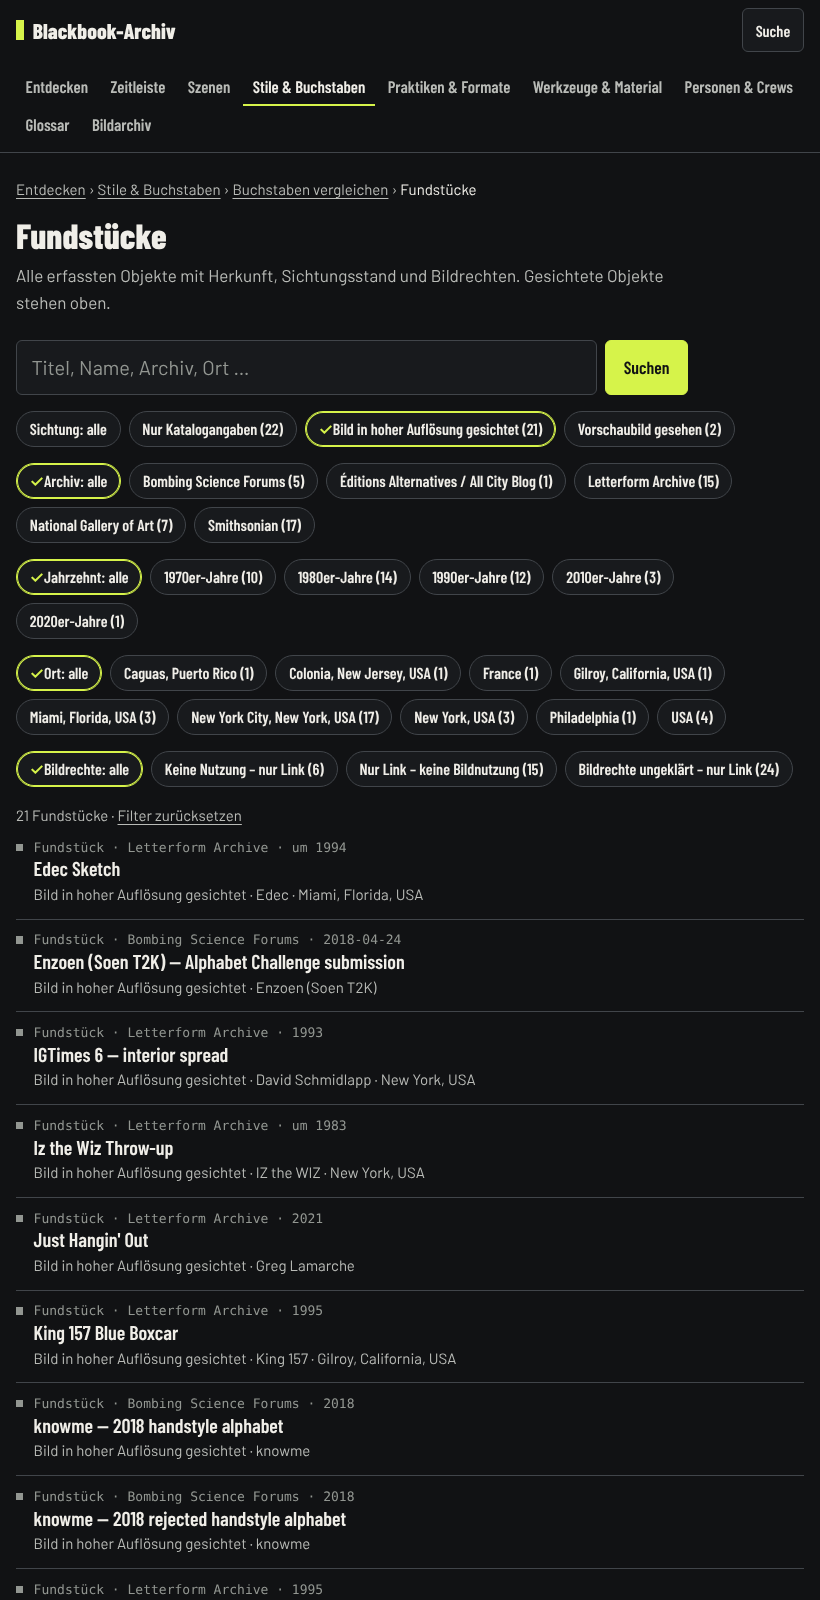
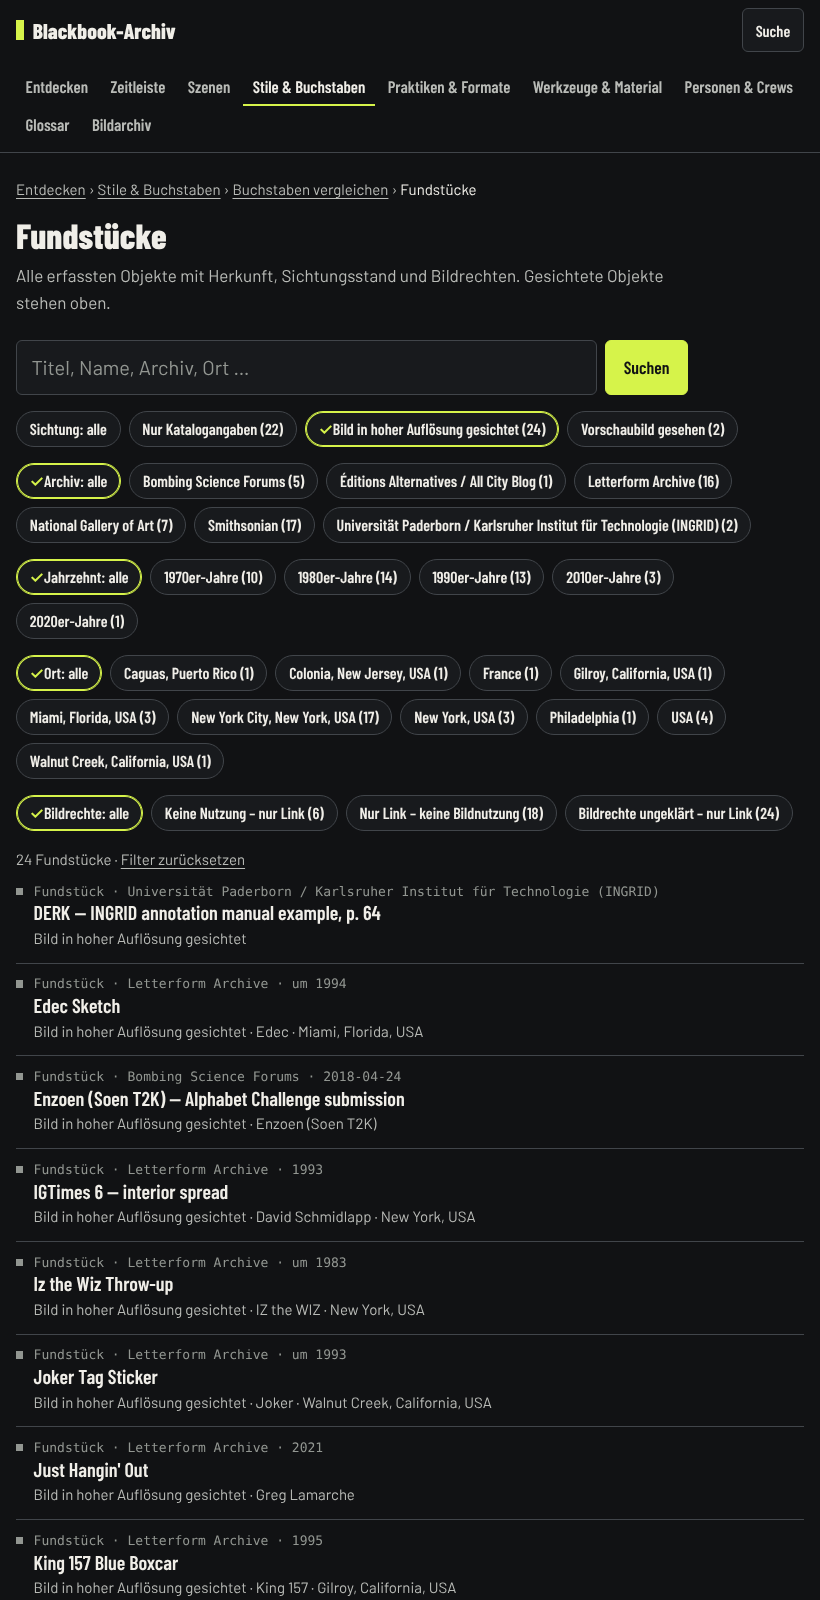
INGRID review: two glyphs and one finding to draft; fix dead manual link; rebuild
Follow-up to PR #34 (head eb42bad), per the review request there.

- Built and checked PR #34 as submitted: 20 eligible glyph observations from
  3 platforms, 220/220 tests (comparison data had not been regenerated).
- Independent check against the German original of the INGRID manual
  (INGRID_Manual_Oktober_2019.pdf, printed p. 62; embedded images
  699x290 px and 523x150 px JPEG). The English DeepL PDF (p. 64) returns
  HTTP 404; both specimens now link the reachable original.
- Hold: DERK R, DERK K, ReMS R, ReMS M.
- To draft with reviewNoteDe: GLY-INGRID-DERK-D1 (no vertical stem; left side
  is two horizontal bars with a notch; description does not match) and
  GLY-INGRID-REMS-S1 (readable as S only via the manual's transcription;
  "upper bowl smaller" is wrong). Dependent finding
  FND-D-COUNTER-CONNECTIVITY-01 to draft. Queue entries to candidate.
- Rebuilt: 18 eligible glyph observations from 3 platforms; pilot gate
  closed; Gate 3 not unlocked. STATUS, CHANGELOG, comparison screenshots.

Agent: claude
Claude-Session: https://claude.ai/code/session_01FofYydZ98dQJsDhNPhugpd

diff --git a/docs/STATUS.md b/docs/STATUS.md
@@ -22,7 +22,7 @@
 | **Academy Großbuchstaben A–Z** (Referenzblätter v1, Entwurf) | Galerie unter `/academy/`, Heft-PDF, 72 Korrekturen | Claude | Korrekturliste menschlich prüfen | Owner |
 | **Academy Kleinbuchstaben a–z & Ziffern 0–9** | beauftragt (Owner-Entscheidung 16.11.); noch nichts im Repository | ChatGPT | Ergebnisse per Pull Request einbringen | – |
 | **Style Reference Library** (`docs/lettering/style-library/`) | vollständige Sammlung: 12 Familien / 38 dokumentierte Templates, Katalog + JSON-Registry; alle Templates `documented-draft`. Resolver 1.1: Neutral, Straight, Bubble, Block-fit, Bounce; Wildstyle-Interlocking blockiert durch C04. **Phase A-01** (eingefroren): Owner-Review 19.11. — technischer Proof ok, gestalterisch nicht abgenommen; Straight/Blockbuster neu konzipieren. **Phase A-02** (`phase-a-02/`, Issue #24): Bubble-Punzenschutz (A/B/R jetzt 42–47 % statt 16–20 % Punzenfläche) und kollisionsfreies Bounce; vorläufig, nur ablehnend, `measured-uncalibrated` | ChatGPT (Research/Brief), Claude (Engine) | Owner-Sichtung Phase A-02; Letterform-Grammatiken für Straight/Blockbuster neu definieren (PR #25) | Owner: Sichtung A-02 (Schwellen, ungleiche Masse im Wort); Stildefinition vor dem nächsten Proof |
-| **Letterform-Vergleichsbibliothek** (Spec `LETTERFORM_COMPARISON_LIBRARY_SPEC_01.md`) | **Gate 1 und 2 umgesetzt:** Datenvertrag `contracts/letterform-comparison.v1.json` (1.1.0), Daten unter `research/archive/comparison/`, Build nach `data/archive/comparison.v1.de.json`, Fundstück-Browser unter `#/vergleich`. 46 Fundstücke, 22 gesichtet, **14 zulässige Buchstabenbeobachtungen** aus 3 Quellen bzw. 2 Archiven/Plattformen; 1 Befund. Buchstabenvergleich (Gate 3) gesperrt, bis 20 Beobachtungen aus 3 verschiedenen Archiven/Plattformen vorliegen; Gate 4 offen. NGA-Abbildung bestätigt (#29) | **Recherche nur ChatGPT** (Owner-Entscheidung 19.11.); Claude prüft und integriert | ChatGPT: Beobachtungen aus weiteren Archiven per PR; Claude: Gate 3, sobald das Gate offen ist | Owner: Sichtung |
+| **Letterform-Vergleichsbibliothek** (Spec `LETTERFORM_COMPARISON_LIBRARY_SPEC_01.md`) | **Gate 1 und 2 umgesetzt:** Datenvertrag `contracts/letterform-comparison.v1.json` (1.1.0), Daten unter `research/archive/comparison/`, Fundstück-Browser unter `#/vergleich`. Mit PR #34 (INGRID): 48 Fundstücke, 24 gesichtet, **18 zulässige Buchstabenbeobachtungen** aus 3 Archiven/Plattformen (Bombing Science, Letterform Archive, INGRID); 1 Befund. Zwei INGRID-Beobachtungen (DERK D, ReMS S) und der D-Befund nach Einzelprüfung auf Entwurf gesetzt. **Pilot-Gate geschlossen (18 von 20)**; Gate 3 nicht freigeschaltet | **Recherche nur ChatGPT** (Owner-Entscheidung 19.11.); Claude prüft und integriert | ChatGPT: DERK-D und ReMS-S neu fassen oder ersetzen, weitere Beobachtungen; Claude: Gate 3, sobald das Gate offen ist | Owner: Sichtung; Frage zur Sichtungsqualität kleiner Reproduktionen (siehe PR) |
 | **Recherche Dortmund / Ruhrgebiet** | Quellenaudit, Rubrik, Zugangskarte; keine Seiten visuell codiert | ChatGPT | rechtekonforme Stichprobe | Quellenzugang |
 
 ## Offene Owner-Entscheidungen

diff --git a/docs/CHANGELOG.md b/docs/CHANGELOG.md
@@ -623,3 +623,9 @@
 - Owner decision: the glyph-comparison pilot gate requires 20 eligible glyph observations from at least 3 different archives/platforms (`contracts/letterform-comparison.v1.json` 1.1.0, `minIndependentInstitutions`). Several source records of one platform (e.g. two forum threads) count once. Current state: 12 observations from 3 source records / 2 platforms; gate closed.
 - Fixed CI after PR #31: missing `visualState` on `ALT-WOSHE-M-MAMMOUTH-01`; count test recomputes from source files.
 - Research for the comparison library is done by ChatGPT only (owner decision); Claude reviews and integrates.
+
+## 2026-11-19 — INGRID observations reviewed (PR #34 follow-up)
+
+- Built and checked PR #34: 48 specimens, 20 eligible glyph observations from 3 platforms before review.
+- Independent check of the six INGRID glyphs against the German original of the INGRID manual (printed p. 62; the English p. 64 link returns HTTP 404 and was replaced): K, R (DERK) and R, M (ReMS) hold; DERK D (no vertical stem, description does not match the form) and ReMS S (only readable through the manual's transcription) are set to `draft` with a review note, and so is the dependent finding `FND-D-COUNTER-CONNECTIVITY-01`. Queue entries downgraded to candidate.
+- Result: 18 eligible glyph observations from 3 platforms; pilot gate closed; Gate 3 not unlocked.
